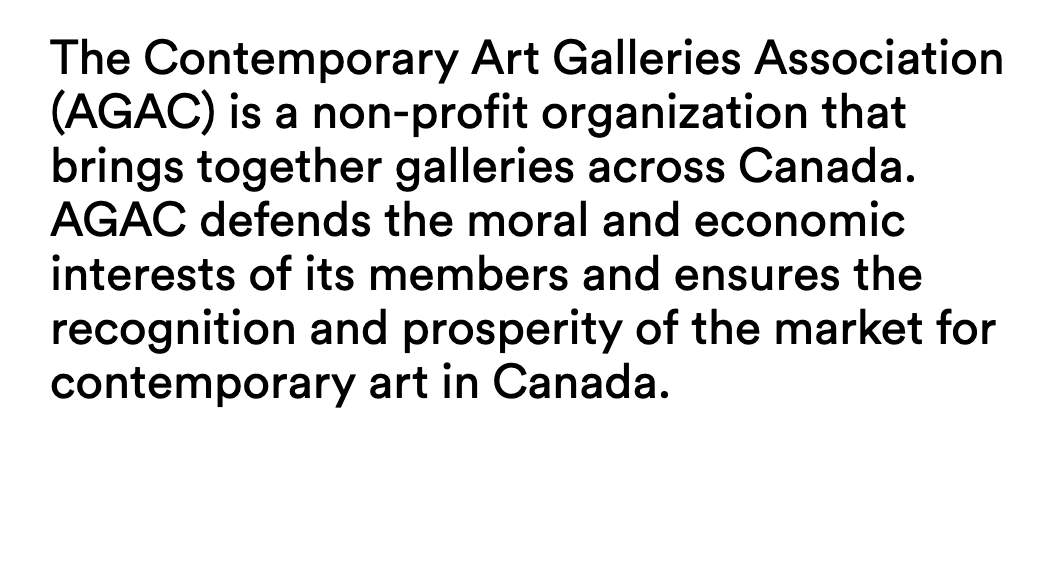
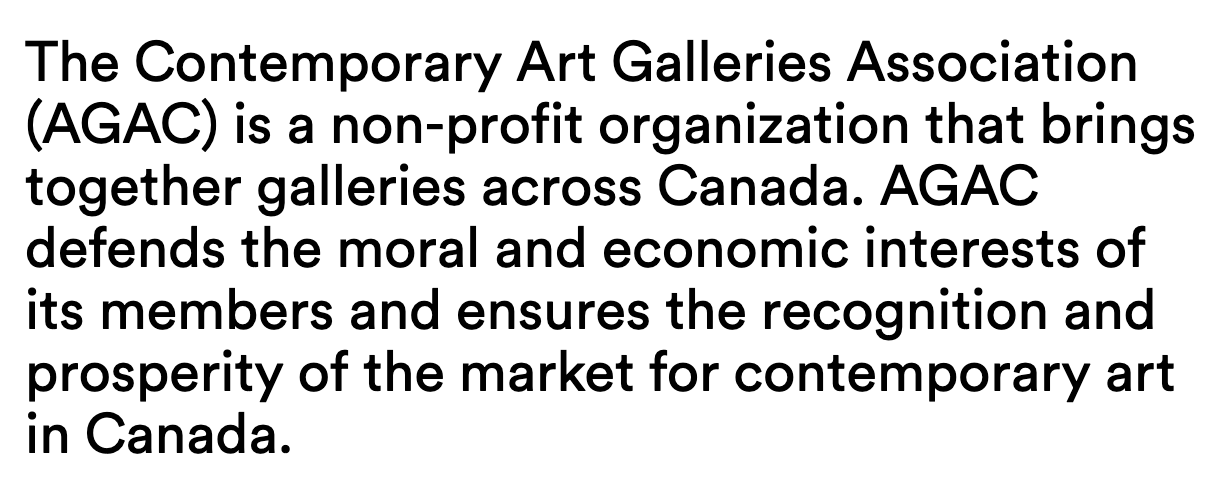
add text style

Changed region(s): [[0.0, 0.0598, 0.9715, 0.9263]]

diff --git a/components/index.html b/components/index.html
@@ -95,12 +95,19 @@
     <h3 class="component__name" id="text">Other Text Styles</h3>
     <div class="component__image">
       <img 
+      srcset="screenshots/atoms/gallery-text.png 2x"
+      src="screenshots/atoms/gallery-text.png" 
+      alt="gallery text">
+      <img 
       srcset="screenshots/atoms/nav-text.png 2x"
       src="screenshots/atoms/nav-text.png" 
-      alt="h1">
+      alt="navigation text">
     </div>
     <div class="component__code">
-      <p class="nav-text">nav-text: Galleries</p>
+      <p>gallery-text:</p>
+      <p class="gallery-text">The Contemporary Art Galleries Association (AGAC) is a non-profit organization that brings together galleries across Canada. AGAC defends the moral and economic interests of its members and ensures the recognition and prosperity of the market for contemporary art in Canada.</p>
+      <p>nav-text:</p>
+      <p class="nav-text">Galleries</p>
     </div>
   </article>
 

diff --git a/css/components.css b/css/components.css
@@ -120,13 +120,18 @@ a {
   text-underline-offset: 3px;
 }
 
+.nav-text {
+  font-size: 16px;
+}
+
+.gallery-text {
+  font-size: 28px;
+  line-height: 30px;
+}
+
 hr {
   border-top: 1px solid black;
   margin-bottom: -7px;
-}
-
-.nav-text {
-  font-size: 16px;
 }
 
 /**
